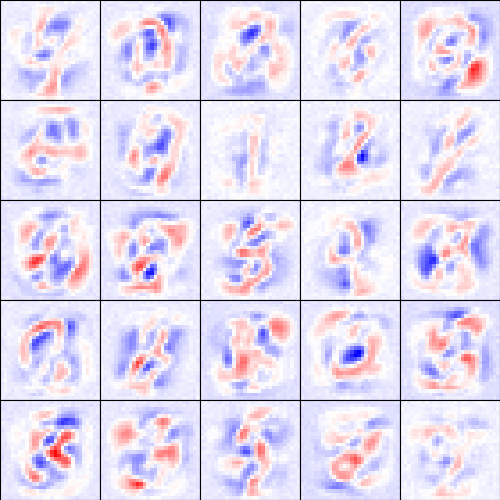
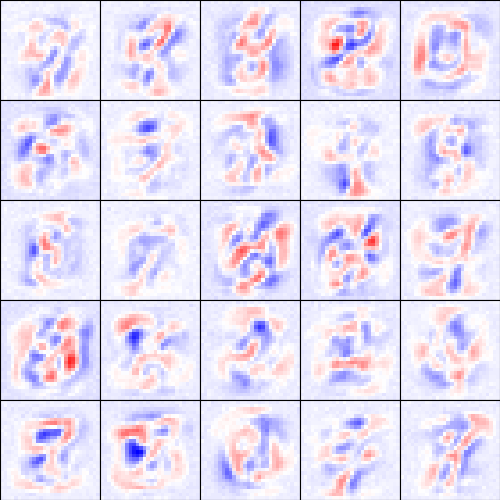
checkpoint

diff --git a/lab4_code/dbn.py b/lab4_code/dbn.py
@@ -77,7 +77,7 @@ class DeepBeliefNet():
             vis = self.rbm_stack["vis--hid"].get_h_given_v(vis)[1]
             vis = self.rbm_stack["hid--pen"].get_h_given_v(vis)[1]
             vis = np.concatenate((vis, lbl), axis=1)
-            lbl = self.rbm_stack["pen+lbl--top"].get_h_given_v(vis)[1][:, -self.n_labels:]
+            lbl = self.rbm_stack["pen+lbl--top"].get_h_given_v(vis)[1][:, -true_lbl.shape[0]:]
             #===================================================================================================
 
         predicted_lbl = np.zeros(true_lbl.shape)
@@ -125,9 +125,9 @@ class DeepBeliefNet():
         Notice that once you stack more layers on top of a RBM, the weights are permanently untwined.
 
         Args:
-          vis_trainset: visible data shaped (size of training set, size of visible layer)
-          lbl_trainset: label data shaped (size of training set, size of label layer)
-          n_iterations: number of iterations of learning (each iteration learns a mini-batch)
+        vis_trainset: visible data shaped (size of training set, size of visible layer)
+        lbl_trainset: label data shaped (size of training set, size of label layer)
+        n_iterations: number of iterations of learning (each iteration learns a mini-batch)
         """
 
         try :
@@ -141,44 +141,48 @@ class DeepBeliefNet():
             self.loadfromfile_rbm(loc="trained_rbm",name="pen+lbl--top")        
 
         except IOError :
-
-            # [TODO TASK 4.2] use CD-1 to train all RBMs greedily
-            #===================================================================================================
-            # for rbm_name in self.rbm_stack:
-            #     current_rbm = self.rbm_stack[rbm_name]
-            #     print(f"Training {rbm_name}")
-
-            #     # Perform CD-1 training for the current RBM
-            #     current_rbm.cd1(vis_trainset if not current_rbm.is_top else np.hstack((vis_trainset, lbl_trainset)), n_iterations)
-
-            #     # Untwine weights for the next RBM in the stack
-            #     if rbm_name != "pen+lbl--top":
-            #         current_rbm.untwine_weights()
-            #     else:
-            #         # Save the trained parameters for the top RBM
-            #         self.savetofile_rbm(loc="trained_rbm", name="pen+lbl--top")
-
-
+            # If previously trained parameters are not found, perform greedy layer-wise training
 
             print("training vis--hid")
             """
-            CD-1 training for vis--hid 
+            CD-1 training for vis--hid
             """
             self.rbm_stack["vis--hid"].cd1(vis_trainset, n_iterations)
 
+            # Save trained parameters for vis--hid
+            self.savetofile_rbm(loc="trained_rbm", name="vis--hid")
+
             print("training hid--pen")
-            """ 
-            CD-1 training for hid--pen 
             """
-            self.rbm_stack["hid--pen"].cd1(self.rbm_stack["vis--hid"].get_h_given_v(vis_trainset)[1], n_iterations)
+            CD-1 training for hid--pen
+            """
+            # Get hidden layer activations from vis--hid for use in hid--pen
+            hidden_activations = self.rbm_stack["vis--hid"].get_h_given_v(vis_trainset)[1]
+            self.rbm_stack["hid--pen"].cd1(hidden_activations, n_iterations)
+
+            # Untwine the weights for the next layer
+            self.rbm_stack["vis--hid"].untwine_weights()
+
+            # Save trained parameters for hid--pen
+            self.savetofile_rbm(loc="trained_rbm", name="hid--pen")
 
             print("training pen+lbl--top")
-            """ 
-            CD-1 training for pen+lbl--top 
             """
-            v_hidden = np.concatenate((self.rbm_stack["hid--pen"].get_h_given_v(vis_trainset)[1], lbl_trainset), axis=1)
-            self.rbm_stack["pen+lbl--top"].cd1(v_hidden, n_iterations)            
-            #===================================================================================================
+            CD-1 training for pen+lbl--top
+            """
+            # Get hidden layer activations from hid--pen
+            hidden_activations = self.rbm_stack["hid--pen"].get_h_given_v(hidden_activations)[1]
+
+            # Concatenate labels with activations for pen+lbl--top
+            visible_data = np.concatenate((hidden_activations, lbl_trainset), axis=1)
+            self.rbm_stack["pen+lbl--top"].cd1(visible_data, n_iterations)
+
+            # Untwine the weights for the next layer
+            self.rbm_stack["hid--pen"].untwine_weights()
+
+            # Save trained parameters for pen+lbl--top
+            self.savetofile_rbm(loc="trained_rbm", name="pen+lbl--top")
+
         return    
 
     def train_wakesleep_finetune(self, vis_trainset, lbl_trainset, n_iterations):

diff --git a/lab4_code/rbm.py b/lab4_code/rbm.py
@@ -78,7 +78,7 @@ class RestrictedBoltzmannMachine():
         
         n_samples = visible_trainset.shape[0]
 
-        n_epochs = 2
+        n_epochs = 2 # 15
         n_iterations = int(n_samples / self.batch_size) * n_epochs
         print("Running for {} iterations".format(n_iterations))
         index = 0 

diff --git a/lab4_code/run part2.py b/lab4_code/run part2.py
@@ -37,6 +37,8 @@ if __name__ == "__main__":
 
     dbn.train_greedylayerwise(vis_trainset=train_imgs, lbl_trainset=train_lbls, n_iterations=100)
 
+    ''' recognize test data '''
+
     dbn.recognize(train_imgs, train_lbls)
     
     dbn.recognize(test_imgs, test_lbls)
